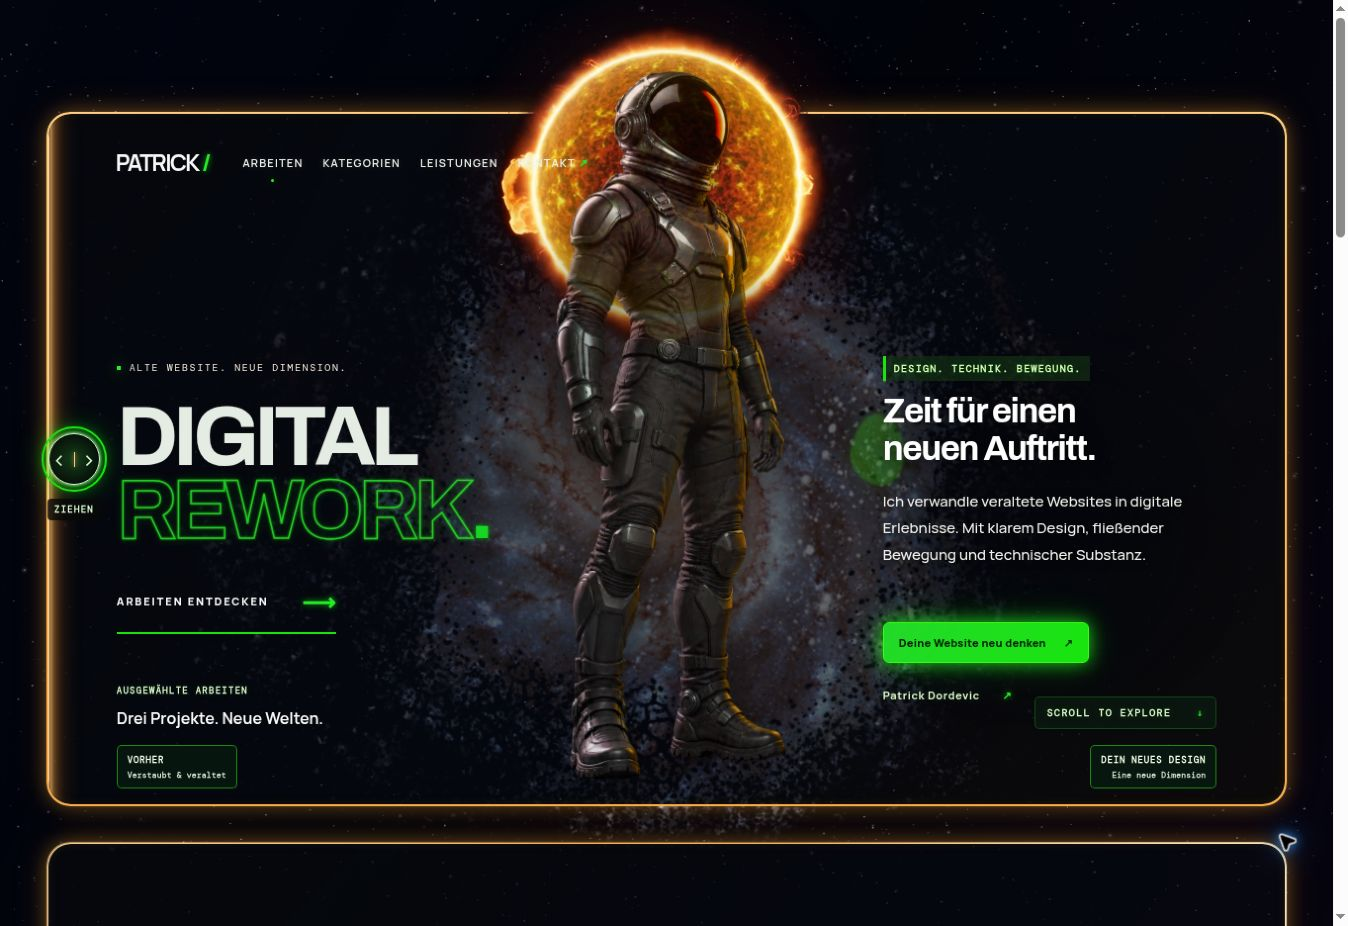
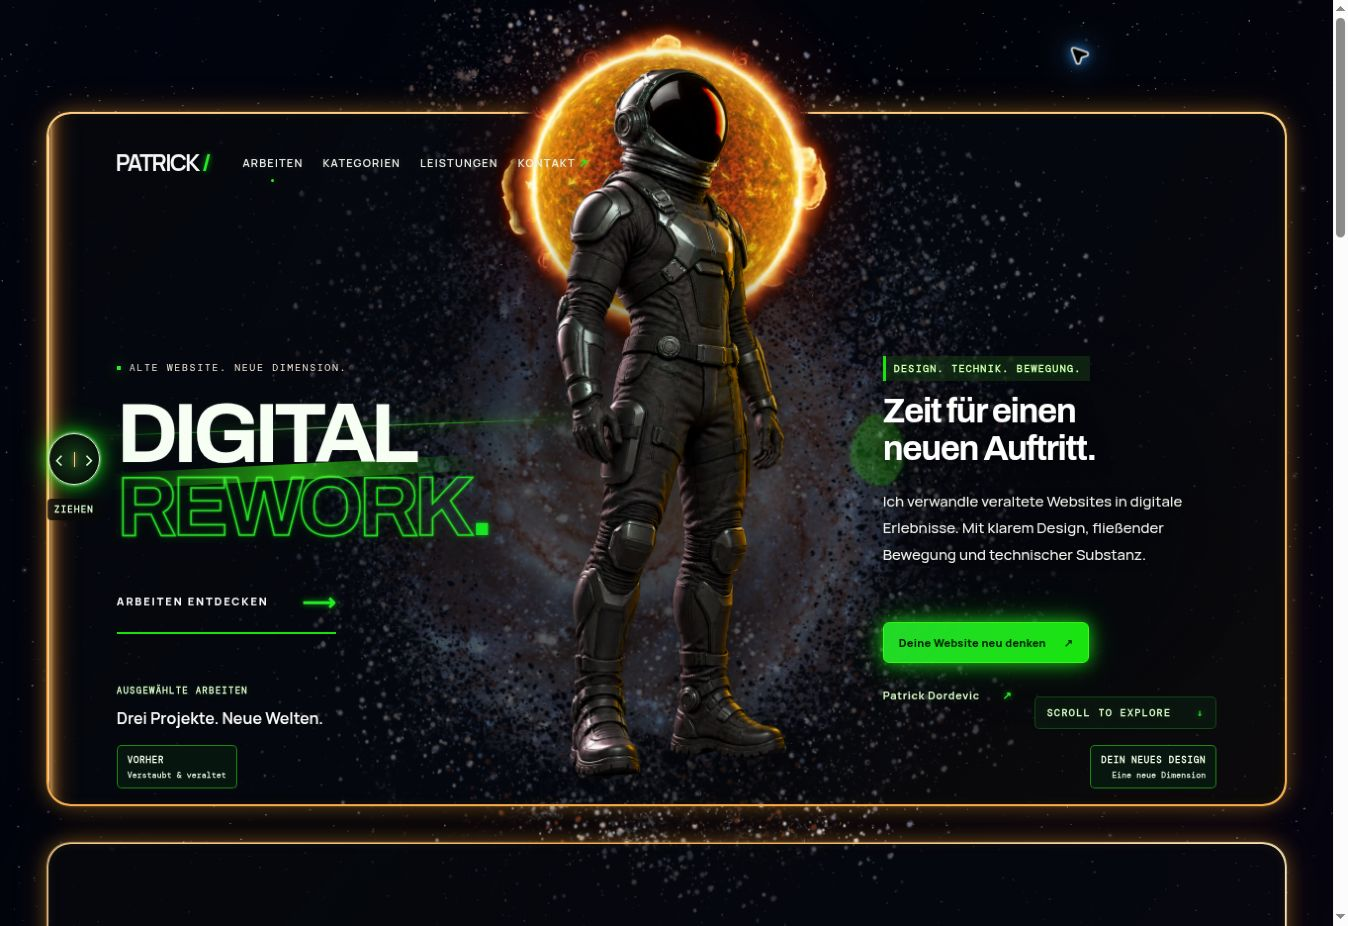
Document refined galaxy rendering and refresh preview

diff --git a/PROJECT_NOTES.md b/PROJECT_NOTES.md
@@ -179,3 +179,11 @@ Keine Maskierung, Bildbearbeitung, Farbänderung oder Abdunklung.
 Der zuvor geprüfte Upload Galaxy(1).png enthielt einen grünen Hintergrund und
 wurde nicht eingebunden. Zusätzliche feste Randsterne, Rotationsschichten,
 Sonne/Korona sowie alle übrigen Seitenelemente und Skripte bleiben unverändert.
+Ressourcenprüfung und git diff --check erfolgreich; beide CI-Läufe und
+Cloudflare-Preview erfolgreich. Chromium-Desktop und 390-px-CSS-Viewport
+zeigen assets/images/Galaxy-2.png mit 1280×1001 Pixeln, opacity=1 und
+mask-image=none. Keine horizontale Überbreite (1348/1348 und 375/375).
+Galaxie und feste Sterne behalten ihre getrennten Rotationszustände.
+Originalbytegleichheit geprüft; Styles, Skripte und Sonnenmedien sind
+gegenüber f0583af unverändert. Vorschaubild aktualisiert. Firefox weiterhin
+nicht verfügbar; unveränderte übrige Interaktionen zuvor vollständig geprüft.
